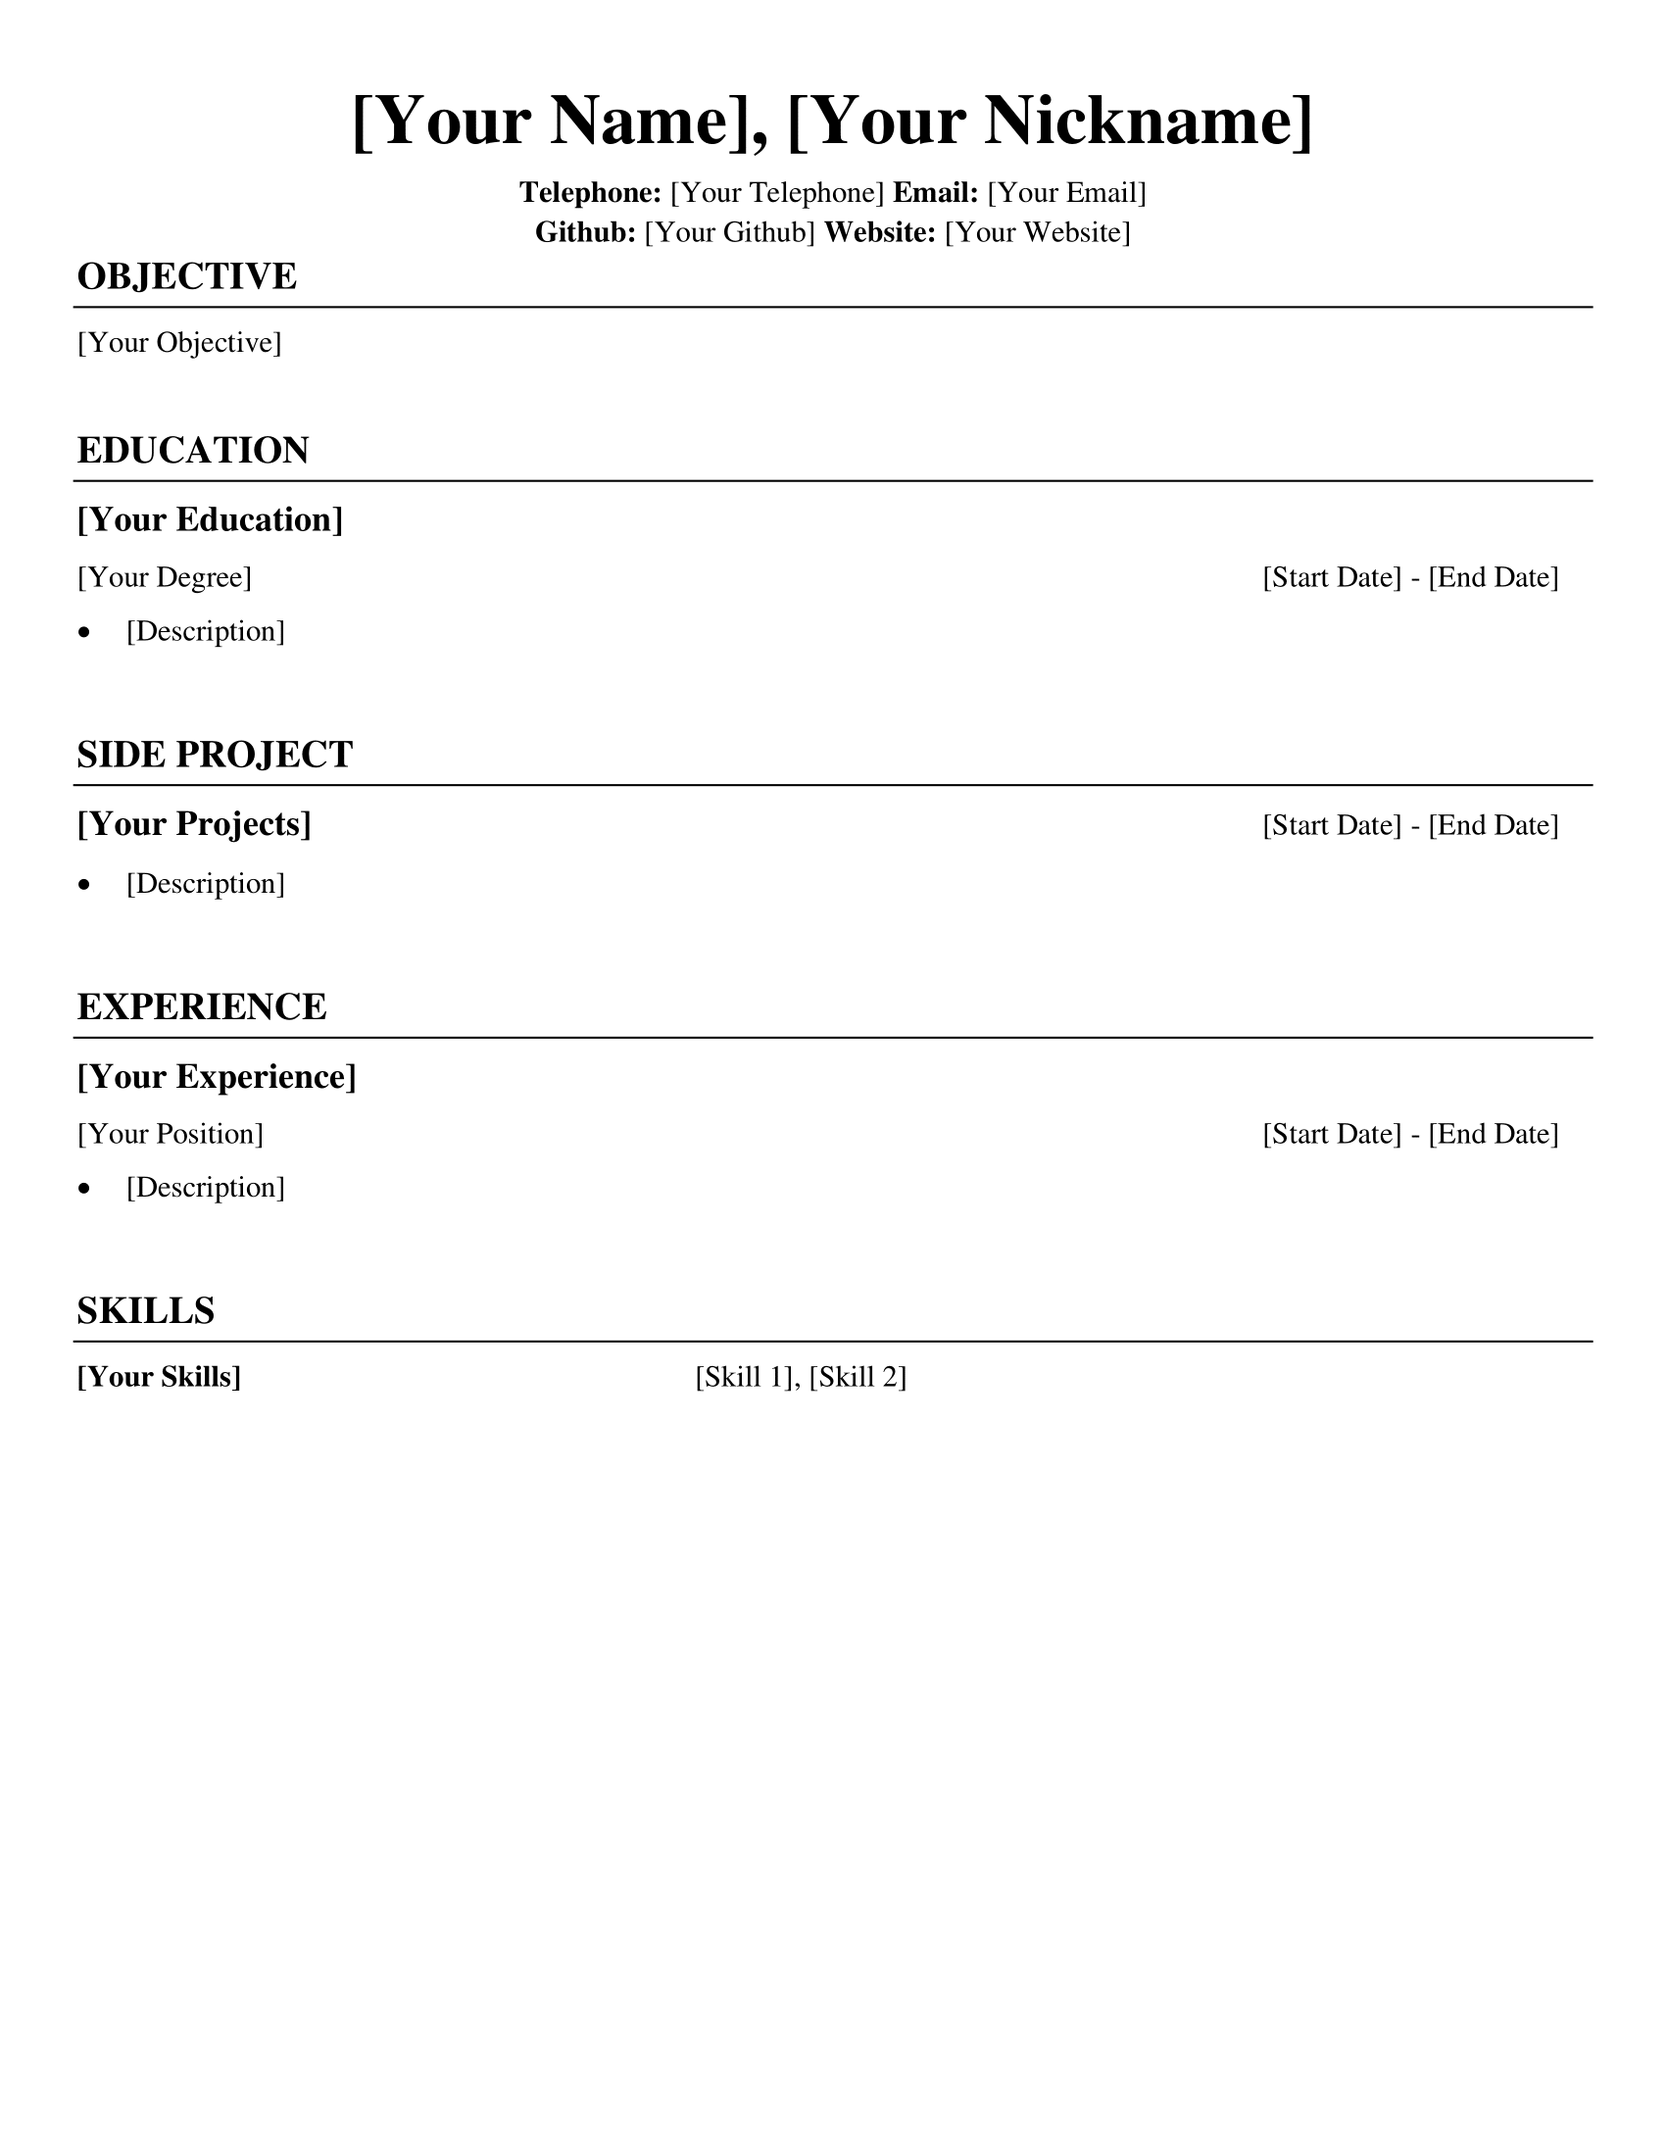
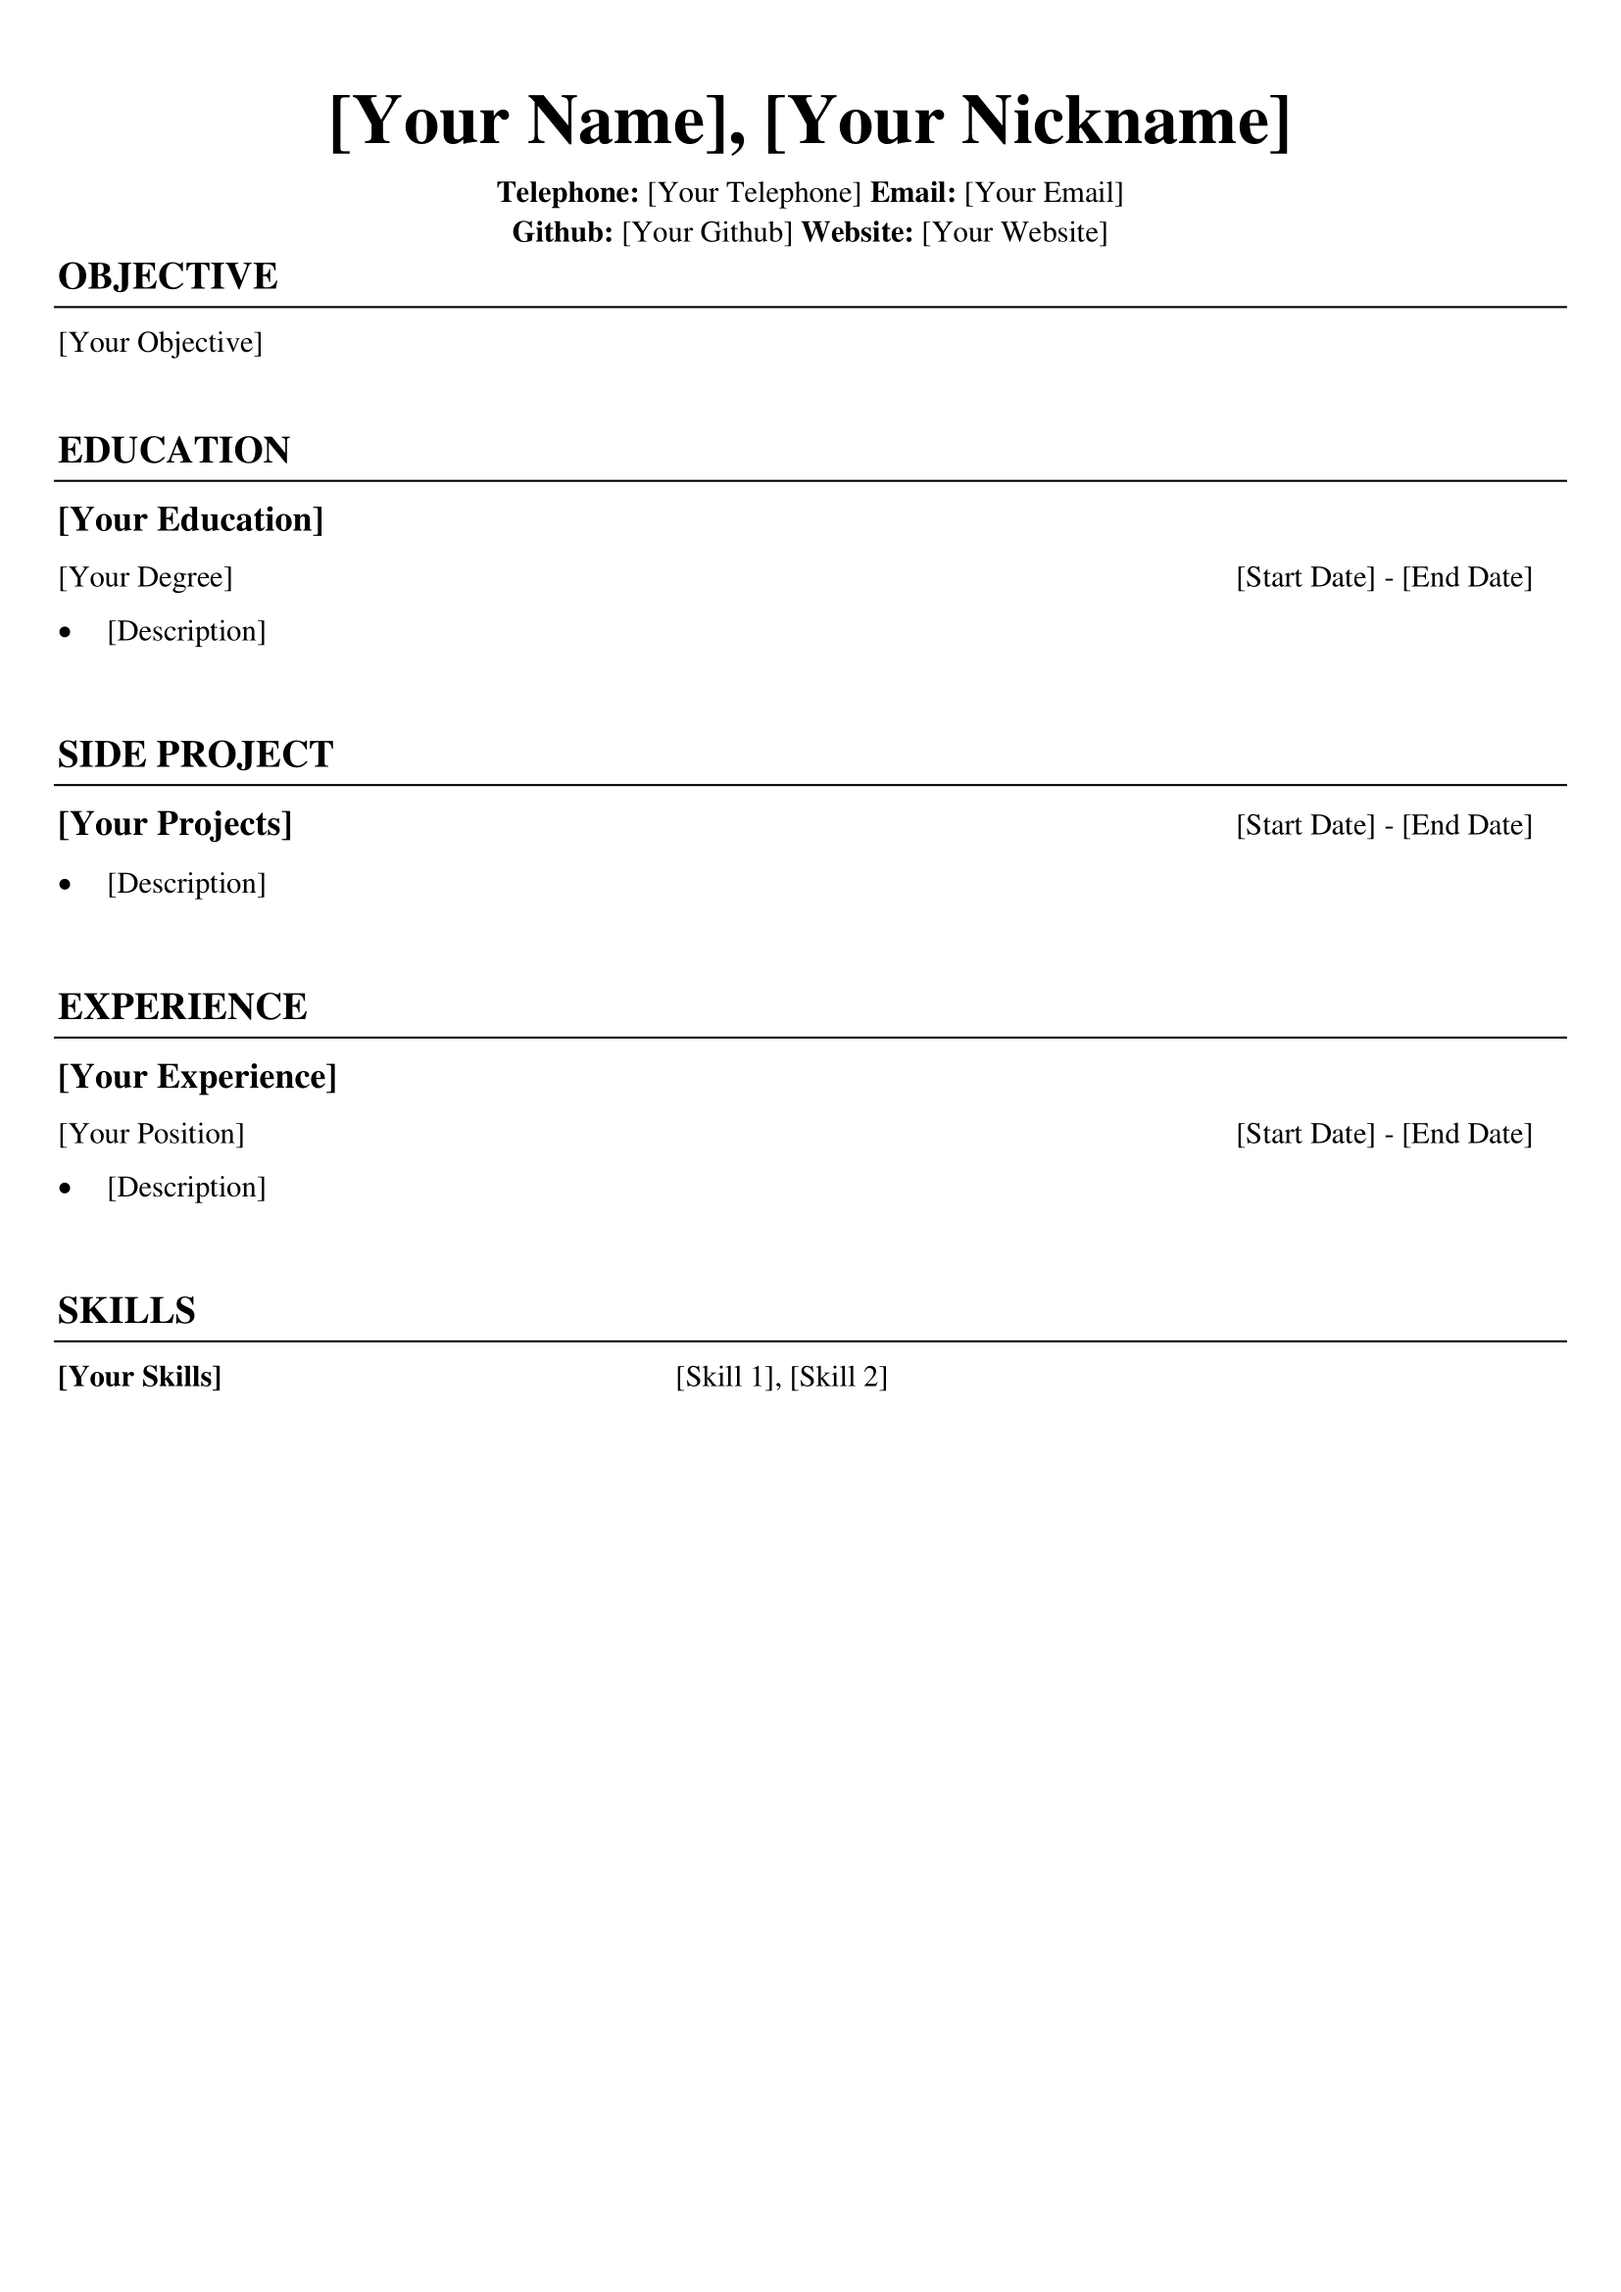
fixed the layout of the word document and updated the template png

diff --git a/src/create_object.py b/src/create_object.py
@@ -1,13 +1,13 @@
 # Create data Object
-# from src.classes.Heading import Heading
-# from src.classes.Objective import Objective
-# from src.classes.Content import Component
-# from src.classes.Skill import Skill
+from src.classes.Heading import Heading
+from src.classes.Objective import Objective
+from src.classes.Content import Component
+from src.classes.Skill import Skill
 
-from classes.Heading import Heading
-from classes.Objective import Objective
-from classes.Content import Component
-from classes.Skill import Skill
+# from classes.Heading import Heading
+# from classes.Objective import Objective
+# from classes.Content import Component
+# from classes.Skill import Skill
 
 
 def create_heading_object(li:list) -> Component:

diff --git a/resume.py b/resume.py
@@ -1,5 +1,5 @@
 from docx import Document
-from docx.shared import Pt, Cm
+from docx.shared import Pt, Cm, Mm
 from docx.enum.text import WD_ALIGN_PARAGRAPH
 import subprocess
 
@@ -154,8 +154,11 @@ def main() -> None:
     for section in sections:
         section.top_margin = Cm(1)
         section.bottom_margin = Cm(1)
-        section.left_margin = Cm(1)
-        section.right_margin = Cm(1)
+        section.left_margin = Mm(7.5)
+        section.right_margin = Mm(7.5)
+        # A4 size
+        section.page_height = Mm(297)
+        section.page_width = Mm(210)
 
     Heading(document, heading_data)
     Objective(document, objective_data)

diff --git a/src/gui.py b/src/gui.py
@@ -3,9 +3,11 @@ import pathlib
 import webbrowser
 import os
 
-# from src.create_object import *
-from create_object import *
-from LoadData import LoadData
+from src.create_object import *
+from src.LoadData import LoadData
+# from create_object import *
+# from LoadData import LoadData
+
 # Reference:
 # 1. Scroll Bar Update
 # https://stackoverflow.com/questions/65811804/how-to-automatically-update-the-pysimplegui-column-scroll-bar
